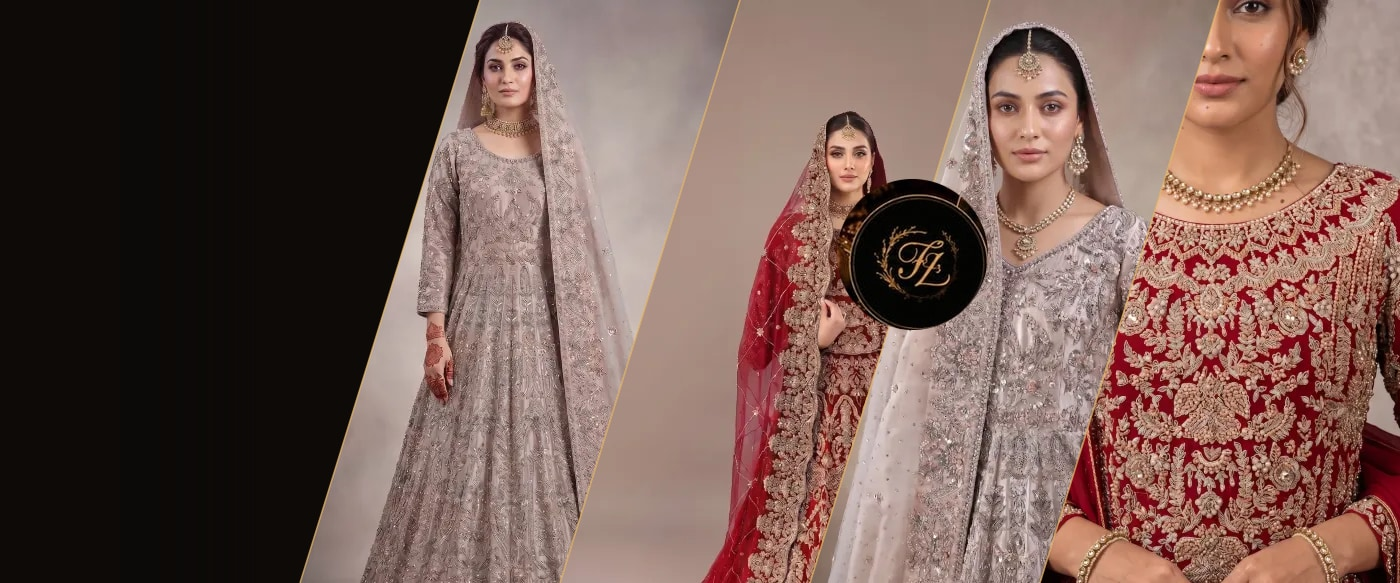
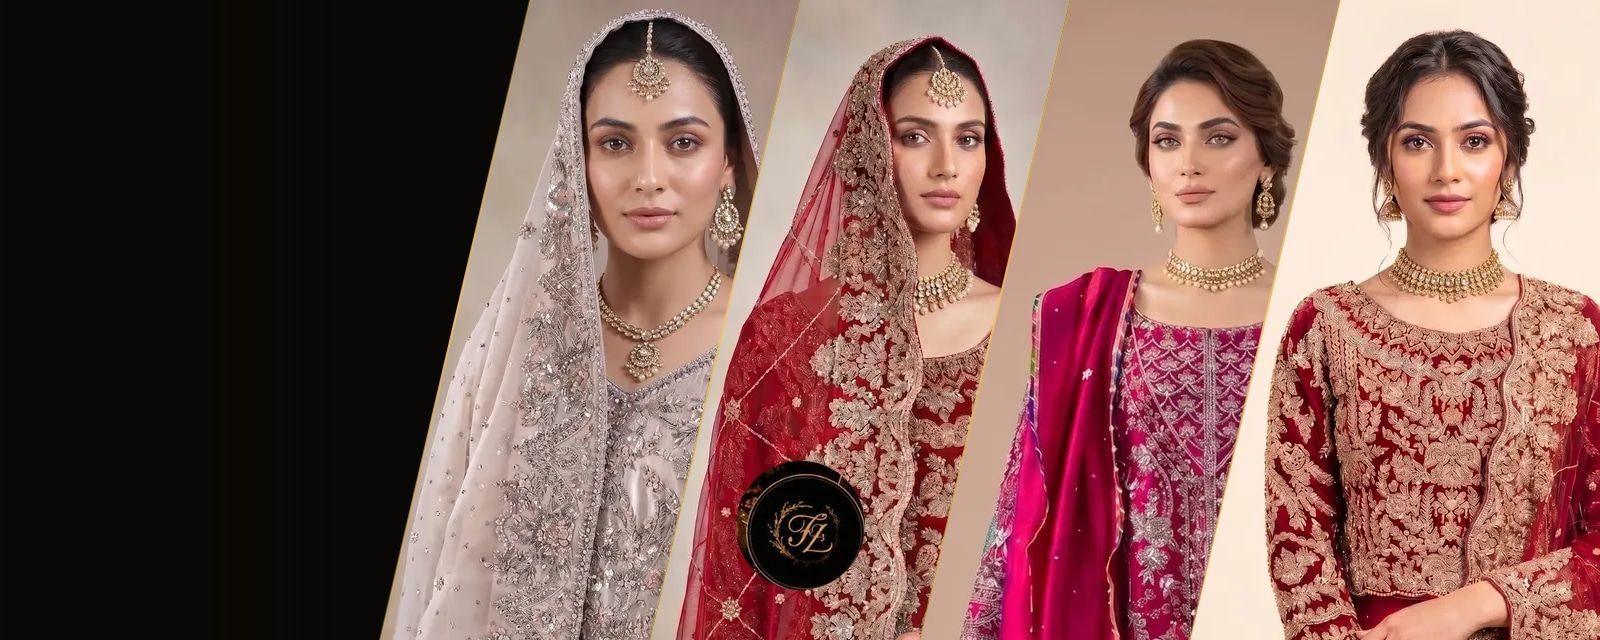
Changed the Background, changed the catergories

diff --git a/src/app/about-us/page.tsx b/src/app/about-us/page.tsx
@@ -84,7 +84,7 @@ export default function AboutUsPage() {
       <Header />
       <main className="flex flex-1 flex-col">
         {/* 1. Page hero */}
-        <section className="relative flex min-h-[45vh] sm:min-h-[55vh] w-full items-center overflow-hidden bg-ink">
+        <section className="relative flex min-h-[45vh] sm:min-h-[55vh] w-full items-center overflow-hidden bg-ink pt-32 pb-16 sm:pt-40 sm:pb-20">
           <Image
             src="/images/about-hero-bg.jpeg"
             alt="Fazal Zari bridal craftsmanship"
@@ -95,7 +95,9 @@ export default function AboutUsPage() {
             placeholder="blur"
             blurDataURL={BLUR_DARK}
           />
-          <div className="absolute inset-0 bg-gradient-to-t from-black/50 via-black/10 to-transparent" />
+          {/* Light dark overlay for text contrast while keeping the royal palace and model bright */}
+          <div className="absolute inset-0 bg-gradient-to-r from-black/85 via-black/45 to-black/15" />
+          <div className="absolute inset-0 bg-gradient-to-t from-black/55 via-transparent to-black/25" />
 
           <div className="relative z-10 mx-auto w-full max-w-7xl px-5 sm:px-6 md:px-10">
             <div className="max-w-[600px]">
@@ -126,91 +128,84 @@ export default function AboutUsPage() {
           </div>
         </section>
 
-        {/* 2. About Us intro */}
+        {/* 2. Brand Story */}
         <Reveal>
-          <section className="w-full bg-cream/40 py-12 sm:py-16 md:py-20">
-            <div className="mx-auto grid max-w-7xl grid-cols-1 items-center gap-8 sm:gap-12 px-5 sm:px-6 md:grid-cols-2 md:px-10">
-              <div className="order-1">
+          <section className="bg-cream py-16 md:py-24">
+            <div className="mx-auto grid max-w-7xl grid-cols-1 items-center gap-12 px-6 md:grid-cols-2">
+              <div>
+                <SectionHeading>OUR STORY</SectionHeading>
+                <p className="mt-6 font-sans text-base leading-relaxed text-body-gray">
+                  For over two decades, Fazal Zari has been at the forefront of
+                  luxury bridal couture in Faisalabad. What started as a
+                  passion for traditional zardozi embroidery has blossomed
+                  into one of Pakistan&apos;s most sought-after bridal houses.
+                </p>
+                <p className="mt-4 font-sans text-base leading-relaxed text-body-gray">
+                  Each piece is meticulously handcrafted by our master artisans,
+                  blending age-old techniques with contemporary silhouettes. From
+                  intricate dabka and naqshi to sparkling crystals and pearls,
+                  every detail is placed with intention.
+                </p>
+                <p className="mt-4 font-italic text-base italic text-gold-muted">
+                  &ldquo;We don&apos;t just make dresses; we create heirlooms that
+                  are passed down through generations.&rdquo;
+                </p>
+              </div>
+              <div className="relative aspect-[4/3] overflow-hidden rounded-lg">
                 <Image
                   src="/images/about-story.png"
-                  alt="Fazal Zari bridal artistry"
-                  width={500}
-                  height={333}
-                  sizes="(min-width: 768px) 500px, 100vw"
-                  className="h-auto w-full rounded-md object-cover"
+                  alt="Fazal Zari artisan at work"
+                  fill
+                  sizes="(min-width: 768px) 50vw, 100vw"
+                  className="object-cover"
                   placeholder="blur"
                   blurDataURL={BLUR_CREAM}
                 />
               </div>
-              <div className="order-2">
-                <span className="font-sans text-xs font-medium tracking-[0.2em] text-gold-muted uppercase">
-                  About Us
-                </span>
-                <h2 className="mt-3 font-serif text-[26px] sm:text-[32px] md:text-[36px] font-medium uppercase leading-[1.1] text-[#0a0a0a]">
-                  Our Story
-                </h2>
-                <p className="mt-6 font-sans text-base font-normal leading-[27px] text-body-gray">
-                  Fazal Zari was founded with a single vision: To preserve
-                  the richness of traditional Pakistani bridal craftsmanship
-                  while creating silhouettes for today&apos;s modern bride.
-                </p>
-                <p className="mt-5 font-sans text-base font-normal leading-[27px] text-body-gray">
-                  Every collection reflects months of meticulous artistry
-                  from selecting premium fabrics to intricate hand
-                  embellishments that honor generations of skilled
-                  craftsmanship.
+            </div>
+          </section>
+        </Reveal>
+
+        {/* 3. Stats */}
+        <section className="bg-ink py-16">
+          <div className="mx-auto grid max-w-7xl grid-cols-2 gap-8 px-6 md:grid-cols-4">
+            {stats.map((stat) => (
+              <div key={stat.label} className="text-center">
+                <Counter
+                  to={stat.to}
+                  suffix={stat.suffix}
+                  className="font-serif-alt text-4xl font-bold text-gold-light md:text-5xl"
+                />
+                <p className="mt-2 font-sans text-sm text-gray-400">
+                  {stat.label}
                 </p>
               </div>
-            </div>
-          </section>
-        </Reveal>
+            ))}
+          </div>
+        </section>
 
-        {/* 3. Pull-quote banner */}
+        {/* 4. Philosophy */}
         <Reveal>
-          <section className="relative flex w-full items-center overflow-hidden bg-ink py-16">
-            <Image
-              src="/images/about-quote-bg.jpeg"
-              alt=""
-              aria-hidden="true"
-              fill
-              sizes="100vw"
-              className="object-cover object-center"
-              placeholder="blur"
-              blurDataURL={BLUR_DARK}
-            />
-            <div className="absolute inset-0 bg-black/60" />
-            <div className="relative z-10 mx-auto max-w-4xl px-6 text-center">
-              <p className="font-serif text-xl sm:text-2xl md:text-[34px] italic font-medium leading-[1.4] text-white">
-                &ldquo;Our brides wear more than beautiful garments. They
-                wear stories.&rdquo;
-              </p>
-            </div>
-          </section>
-        </Reveal>
-
-        {/* 4. Our Philosophy */}
-        <Reveal>
-          <section className="w-full bg-white py-12 sm:py-16 md:py-20">
-            <div className="mx-auto max-w-7xl px-5 sm:px-6 text-center md:px-10">
-              <SectionHeading>Our Philosophy</SectionHeading>
-
-              <div className="mt-8 sm:mt-12 grid grid-cols-1 gap-8 sm:gap-12 md:grid-cols-3 md:gap-8">
+          <section className="bg-cream py-16 md:py-24">
+            <div className="mx-auto max-w-7xl px-6 text-center">
+              <SectionHeading>OUR PHILOSOPHY</SectionHeading>
+              <div className="mt-12 grid grid-cols-1 gap-8 md:grid-cols-3">
                 {philosophy.map((item) => (
                   <div
                     key={item.title}
-                    className="flex flex-col items-center gap-4 text-center"
+                    className="flex flex-col items-center rounded-lg border border-gold-border/40 bg-white p-8 shadow-sm"
                   >
                     <Image
                       src={item.icon}
-                      alt={item.title}
-                      width={64}
-                      height={64}
-                      className="h-16 w-16 object-contain"
+                      alt=""
+                      width={48}
+                      height={48}
+                      className="mb-4"
                     />
-                    <h3 className="font-serif text-xl font-semibold uppercase leading-6 text-[#0a0a0a]">
+                    <h3 className="font-serif-alt text-xl font-bold text-ink">
                       {item.title}
                     </h3>
-                    <p className="max-w-[260px] font-sans text-sm font-normal leading-[21px] text-body-gray">
+                    <p className="mt-2 font-sans text-sm leading-relaxed text-body-gray">
                       {item.description}
                     </p>
                   </div>
@@ -220,73 +215,27 @@ export default function AboutUsPage() {
           </section>
         </Reveal>
 
-        {/* 5. Why Choose Fazal Zari */}
+        {/* 5. Why Choose Us */}
         <Reveal>
-          <section className="w-full bg-cream/40 py-12 sm:py-16 md:py-20">
-            <div className="mx-auto max-w-7xl px-5 sm:px-6 text-center md:px-10">
-              <SectionHeading>Why Choose Fazal Zari</SectionHeading>
-
-              <div className="mt-12 grid grid-cols-1 gap-10 sm:grid-cols-2 lg:grid-cols-4">
+          <section className="bg-white py-16 md:py-24">
+            <div className="mx-auto max-w-7xl px-6">
+              <SectionHeading>WHY CHOOSE FAZAL ZARI</SectionHeading>
+              <div className="mt-12 grid grid-cols-1 gap-8 sm:grid-cols-2 lg:grid-cols-4">
                 {whyChoose.map((item) => (
-                  <div
-                    key={item.title}
-                    className="flex flex-col items-center gap-4 text-center"
-                  >
-                    <Image
-                      src={item.image}
-                      alt={item.title}
-                      width={800}
-                      height={533}
-                      sizes="(min-width: 1024px) 220px, (min-width: 640px) 50vw, 100vw"
-                      className="h-[150px] w-[220px] rounded-md object-cover"
-                      placeholder="blur"
-                      blurDataURL={BLUR_CREAM}
-                    />
-                    <h3 className="font-serif text-xl font-semibold uppercase leading-6 text-[#0a0a0a]">
+                  <div key={item.title} className="text-center">
+                    <div className="relative mx-auto mb-4 h-24 w-24 overflow-hidden rounded-full bg-cream">
+                      <Image
+                        src={item.image}
+                        alt=""
+                        fill
+                        className="object-cover"
+                      />
+                    </div>
+                    <h3 className="font-serif-alt text-lg font-bold text-ink">
                       {item.title}
                     </h3>
-                    <p className="max-w-[240px] font-sans text-sm font-normal leading-[21px] text-body-gray">
+                    <p className="mt-2 font-sans text-sm text-body-gray">
                       {item.description}
-                    </p>
-                  </div>
-                ))}
-              </div>
-            </div>
-          </section>
-        </Reveal>
-
-        {/* 6. Trusted By Brides */}
-        <Reveal>
-          <section className="relative w-full overflow-hidden bg-ink py-20">
-            <Image
-              src="/images/about-trusted-by-brides.png"
-              alt=""
-              aria-hidden="true"
-              fill
-              sizes="100vw"
-              className="object-cover object-center opacity-10"
-            />
-            <div className="relative z-10 mx-auto max-w-7xl px-6 text-center md:px-10">
-              <span className="font-sans text-xs font-medium tracking-[0.2em] text-gold-muted uppercase">
-                Trusted By Brides
-              </span>
-              <h2 className="mt-3 font-serif text-[26px] sm:text-[32px] md:text-[36px] font-medium uppercase leading-[1.1] text-white">
-                Trusted By Brides
-              </h2>
-              <p className="mt-4 font-italic text-base italic font-normal leading-[27px] text-white/80">
-                Loved by brides across Pakistan.
-              </p>
-
-              <div className="mt-14 grid grid-cols-1 gap-10 sm:grid-cols-2 lg:grid-cols-4">
-                {stats.map((stat) => (
-                  <div key={stat.label} className="flex flex-col items-center gap-2">
-                    <Counter
-                      to={stat.to}
-                      suffix={stat.suffix}
-                      className="font-serif text-[36px] sm:text-[42px] md:text-[48px] font-medium leading-none text-gold"
-                    />
-                    <p className="font-sans text-sm font-normal leading-[21px] text-white/70">
-                      {stat.label}
                     </p>
                   </div>
                 ))}

diff --git a/src/data/products.ts b/src/data/products.ts
@@ -60,8 +60,8 @@ export const products: Product[] = [
   {
     slug: "plum-embroidered-kurta-lehenga",
     name: "Plum Embroidered Kurta Lehenga",
-    category: "Luxury Formals",
-    categories: ["New Arrivals", "Unstitched", "Luxury Formals"],
+    category: "Bridal Wear",
+    categories: ["New Arrivals", "Unstitched", "Bridal Wear"],
     price: 350000,
     currency: "PKR",
     images: [
@@ -85,8 +85,8 @@ export const products: Product[] = [
   {
     slug: "champagne-embroidered-anarkali-lehenga",
     name: "Champagne Embroidered Anarkali Lehenga",
-    category: "Luxury Formals",
-    categories: ["New Arrivals", "Unstitched", "Luxury Formals"],
+    category: "Bridal Wear",
+    categories: ["New Arrivals", "Unstitched", "Bridal Wear"],
     price: 340000,
     currency: "PKR",
     images: [
@@ -109,8 +109,8 @@ export const products: Product[] = [
   {
     slug: "dusty-rose-embroidered-pishwas-lehenga",
     name: "Dusty Rose Embroidered Pishwas Lehenga",
-    category: "Luxury Formals",
-    categories: ["New Arrivals", "Unstitched", "Luxury Formals"],
+    category: "Bridal Wear",
+    categories: ["New Arrivals", "Unstitched", "Bridal Wear"],
     price: 310000,
     currency: "PKR",
     images: [
@@ -153,8 +153,8 @@ export const products: Product[] = [
   {
     slug: "beige-embroidered-maxi-anarkali",
     name: "Beige Embroidered Maxi Anarkali",
-    category: "Luxury Formals",
-    categories: ["New Arrivals", "Unstitched", "Luxury Formals"],
+    category: "Bridal Wear",
+    categories: ["New Arrivals", "Unstitched", "Bridal Wear"],
     price: 280000,
     currency: "PKR",
     images: [
@@ -177,8 +177,8 @@ export const products: Product[] = [
   {
     slug: "taupe-embroidered-anarkali-lehenga",
     name: "Taupe Embroidered Anarkali Lehenga",
-    category: "Luxury Formals",
-    categories: ["New Arrivals", "Unstitched", "Luxury Formals"],
+    category: "Bridal Wear",
+    categories: ["New Arrivals", "Unstitched", "Bridal Wear"],
     price: 275000,
     currency: "PKR",
     images: [
@@ -267,8 +267,8 @@ export const products: Product[] = [
   {
     slug: "peach-embroidered-maxi",
     name: "Peach Embroidered Maxi",
-    category: "Party Wear",
-    categories: ["New Arrivals", "Unstitched", "Party Wear"],
+    category: "Luxury Formals",
+    categories: ["New Arrivals", "Unstitched", "Luxury Formals"],
     price: 230000,
     currency: "PKR",
     images: [
@@ -290,8 +290,8 @@ export const products: Product[] = [
   {
     slug: "lilac-gray-embroidered-maxi",
     name: "Lilac Gray Embroidered Maxi",
-    category: "Party Wear",
-    categories: ["New Arrivals", "Unstitched", "Party Wear"],
+    category: "Luxury Formals",
+    categories: ["New Arrivals", "Unstitched", "Luxury Formals"],
     price: 220000,
     currency: "PKR",
     images: [

diff --git a/src/app/contact-us/page.tsx b/src/app/contact-us/page.tsx
@@ -58,7 +58,7 @@ export default function ContactUsPage() {
       <Header />
       <main className="flex flex-1 flex-col">
         {/* 1. Page hero */}
-        <section className="relative flex min-h-[40vh] sm:min-h-[50vh] w-full items-center overflow-hidden bg-ink pt-32 pb-16 sm:pt-40 sm:pb-20">
+        <section className="relative flex min-h-[40vh] sm:min-h-[52vh] w-full items-center overflow-hidden bg-ink pt-32 pb-16 sm:pt-40 sm:pb-20">
           <Image
             src="/images/about-hero-bg.jpeg"
             alt="Fazal Zari bridal craftsmanship"
@@ -69,7 +69,9 @@ export default function ContactUsPage() {
             placeholder="blur"
             blurDataURL={BLUR_DARK}
           />
-          <div className="absolute inset-0 bg-gradient-to-t from-black/50 via-black/10 to-transparent" />
+          {/* Light dark overlay for text contrast while keeping the royal palace and model bright */}
+          <div className="absolute inset-0 bg-gradient-to-r from-black/85 via-black/45 to-black/15" />
+          <div className="absolute inset-0 bg-gradient-to-t from-black/55 via-transparent to-black/25" />
 
           <div className="relative z-10 mx-auto w-full max-w-7xl px-5 sm:px-6 md:px-10">
             <div className="max-w-[600px]">

diff --git a/src/components/ShopByCategory.tsx b/src/components/ShopByCategory.tsx
@@ -16,12 +16,12 @@ const CATEGORIES = [
   },
   {
     label: "Luxury Formals",
-    image: "/images/products/beige-embroidered-maxi-anarkali/img-1.webp",
+    image: "/images/products/rose-gold-embroidered-maxi/img-2.webp",
     href: "/products?category=Luxury+Formals",
   },
   {
     label: "Party Wear",
-    image: "/images/products/peach-embroidered-maxi/img-1.webp",
+    image: "/images/products/powder-blue-embroidered-kurta-set/img-2.webp",
     href: "/products?category=Party+Wear",
   },
   {
